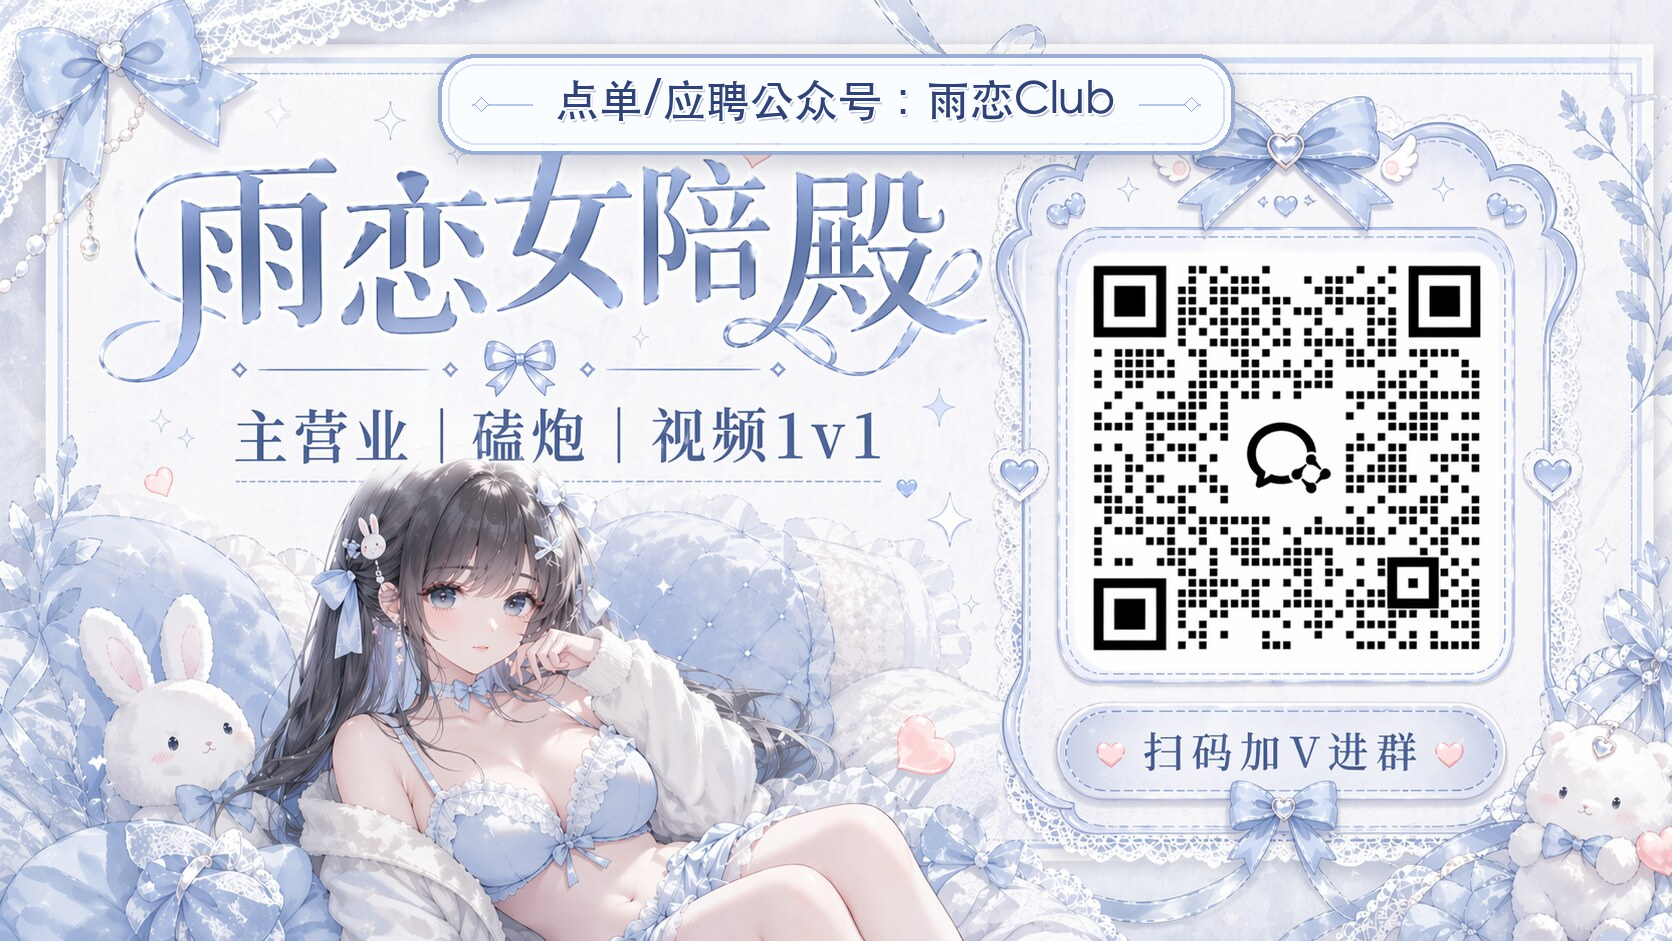
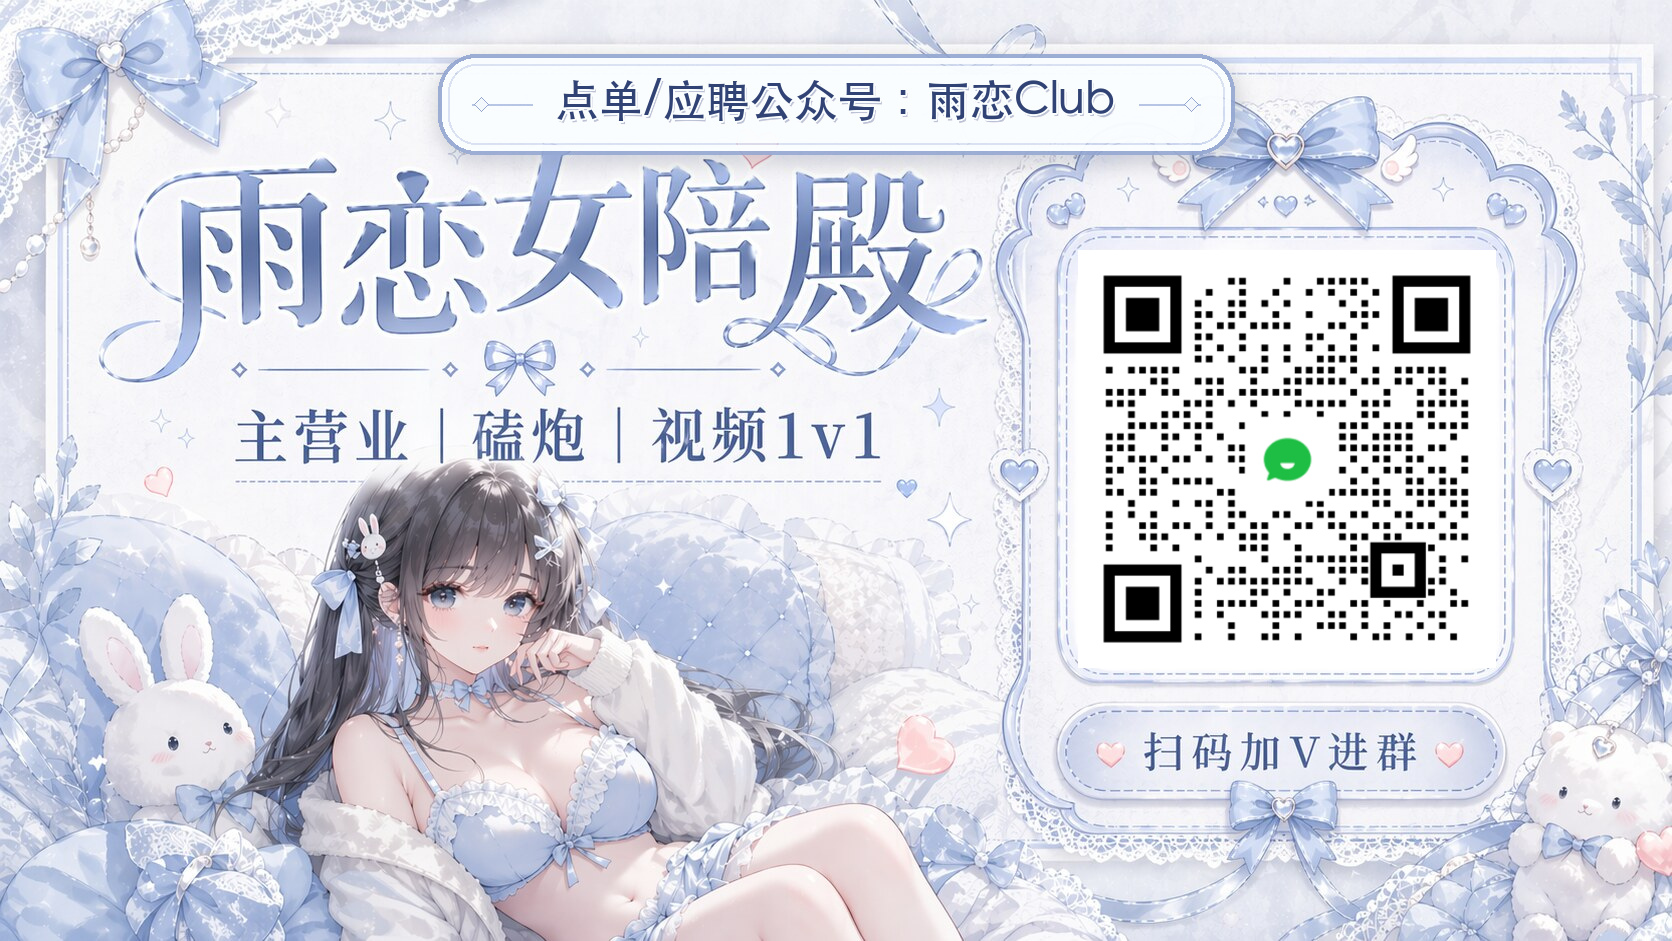
updata

Changed region(s): [[0.6531, 0.2774, 0.9019, 0.7088]]

diff --git a/index.html b/index.html
@@ -5,7 +5,7 @@
 
     <meta
       property="og:image"
-      content="https://yulianpw.github.io/assets/images/rainlove-social-cover.jpg"
+      content="https://yulianpw.github.io/assets/images/rainlove-social-cover.jpg?v=20260819"
     />
     <meta property="og:image:width" content="1672" />
     <meta property="og:image:height" content="941" />
@@ -21,7 +21,7 @@
     <meta name="twitter:card" content="summary_large_image" />
     <meta
       name="twitter:image"
-      content="https://yulianpw.github.io/assets/images/rainlove-social-cover.jpg"
+      content="https://yulianpw.github.io/assets/images/rainlove-social-cover.jpg?v=20260819"
     />
     <meta name="twitter:image:alt" content="雨恋女陪殿" />
     <meta name="twitter:title" content="雨恋女陪殿" />
@@ -1060,8 +1060,8 @@
 
       <img
         class="qrcode"
-        src="assets/images/quan.png"
-        alt="雨恋福利号"
+        src="assets/images/quan.png?v=20260819"
+        alt="雨恋客服二维码"
         width="180"
         height="180"
         decoding="async"
@@ -1221,7 +1221,7 @@
       const MEDIA_COMMIT_PATTERN = /^[0-9a-f]{40}$/i;
       const LOCAL_MEDIA_FOLDER_PATTERN =
         /^[a-z0-9](?:[a-z0-9-]{0,62}[a-z0-9])?$/;
-      const VISUAL_CACHE_ASSETS = ["assets/images/quan.png"];
+      const VISUAL_CACHE_ASSETS = ["assets/images/quan.png?v=20260819"];
       const VALID_TAGS = ["绿色陪", "女喘陪", "视频陪", "未进店"];
       const HEADLINER_LIMITS = { 视频陪: 3, 女喘陪: 5 };
       const FEATURE_RULES = [
